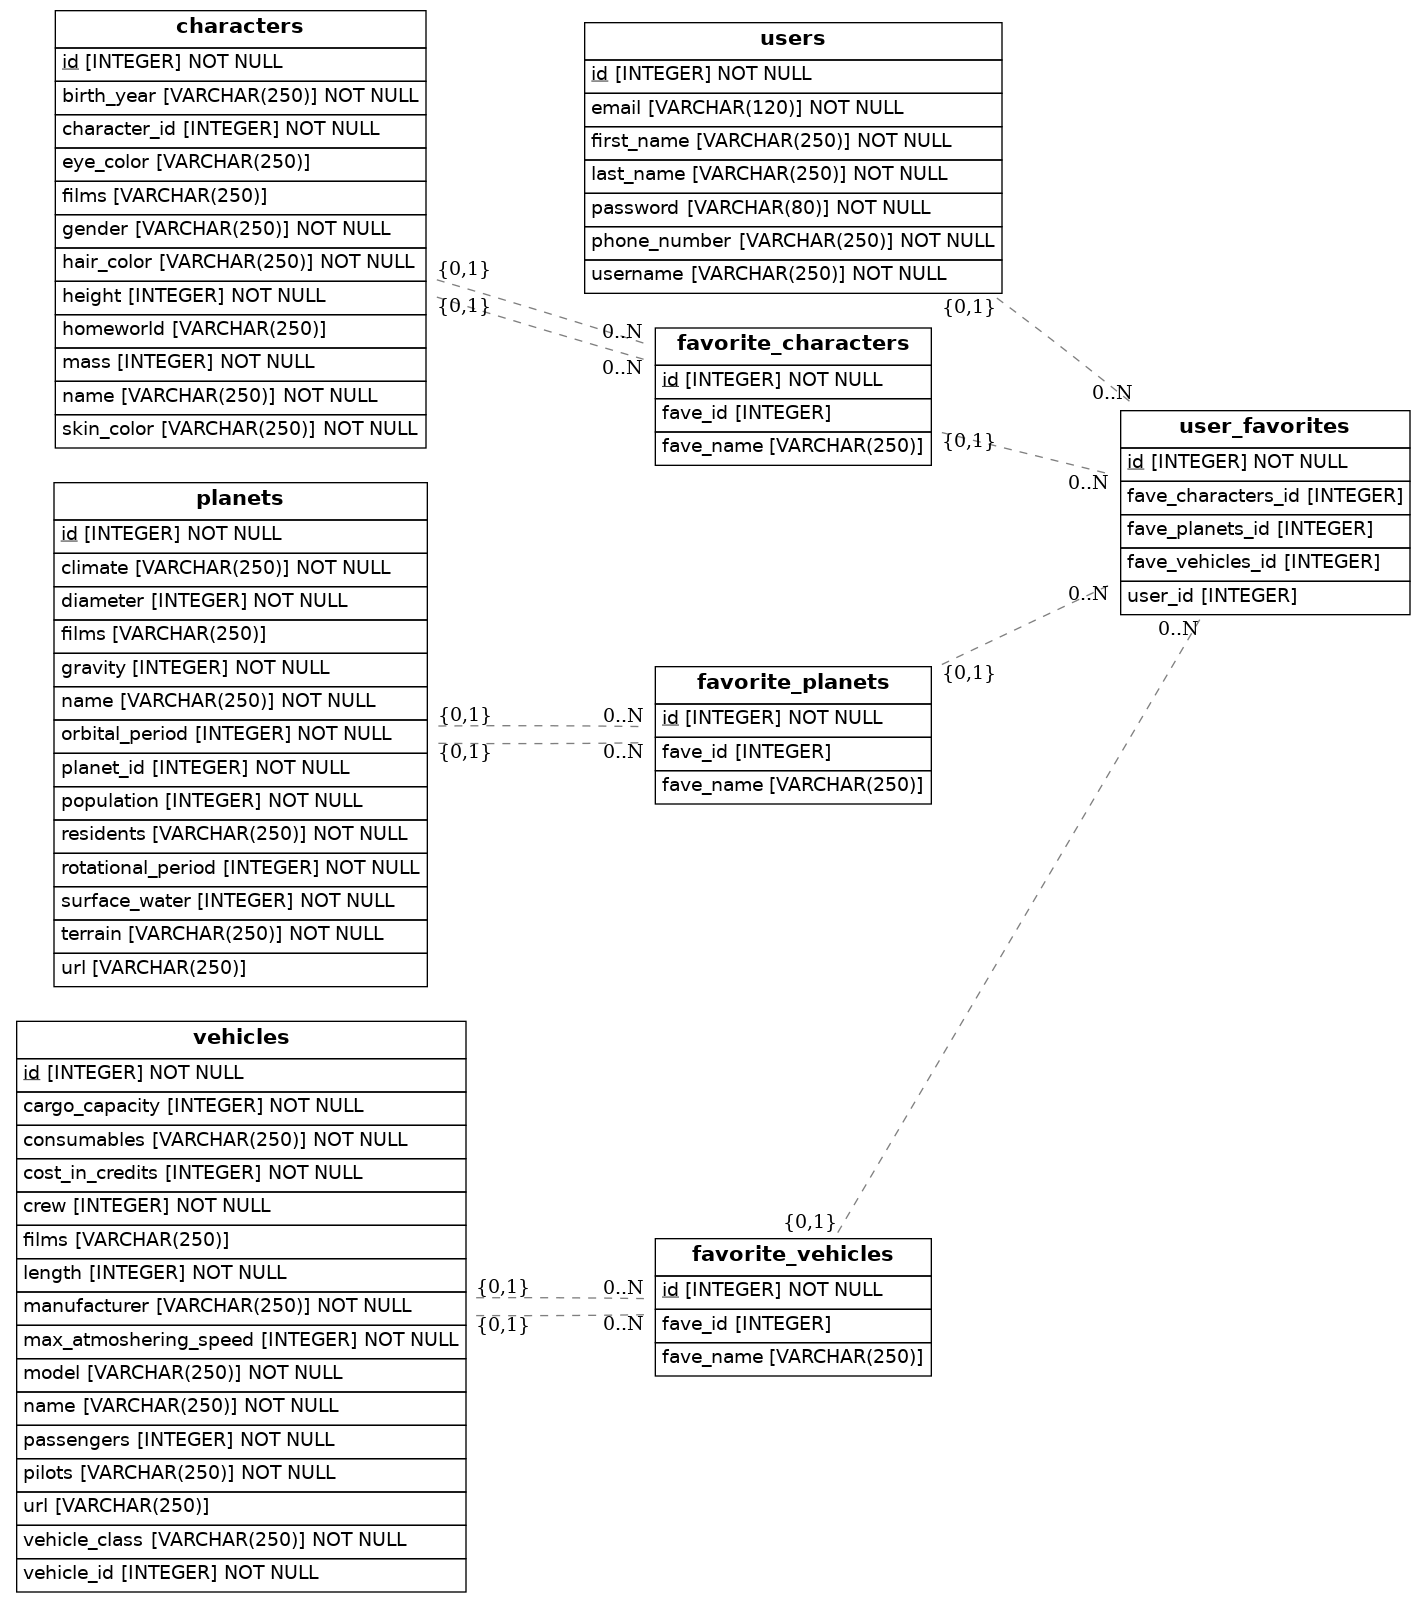
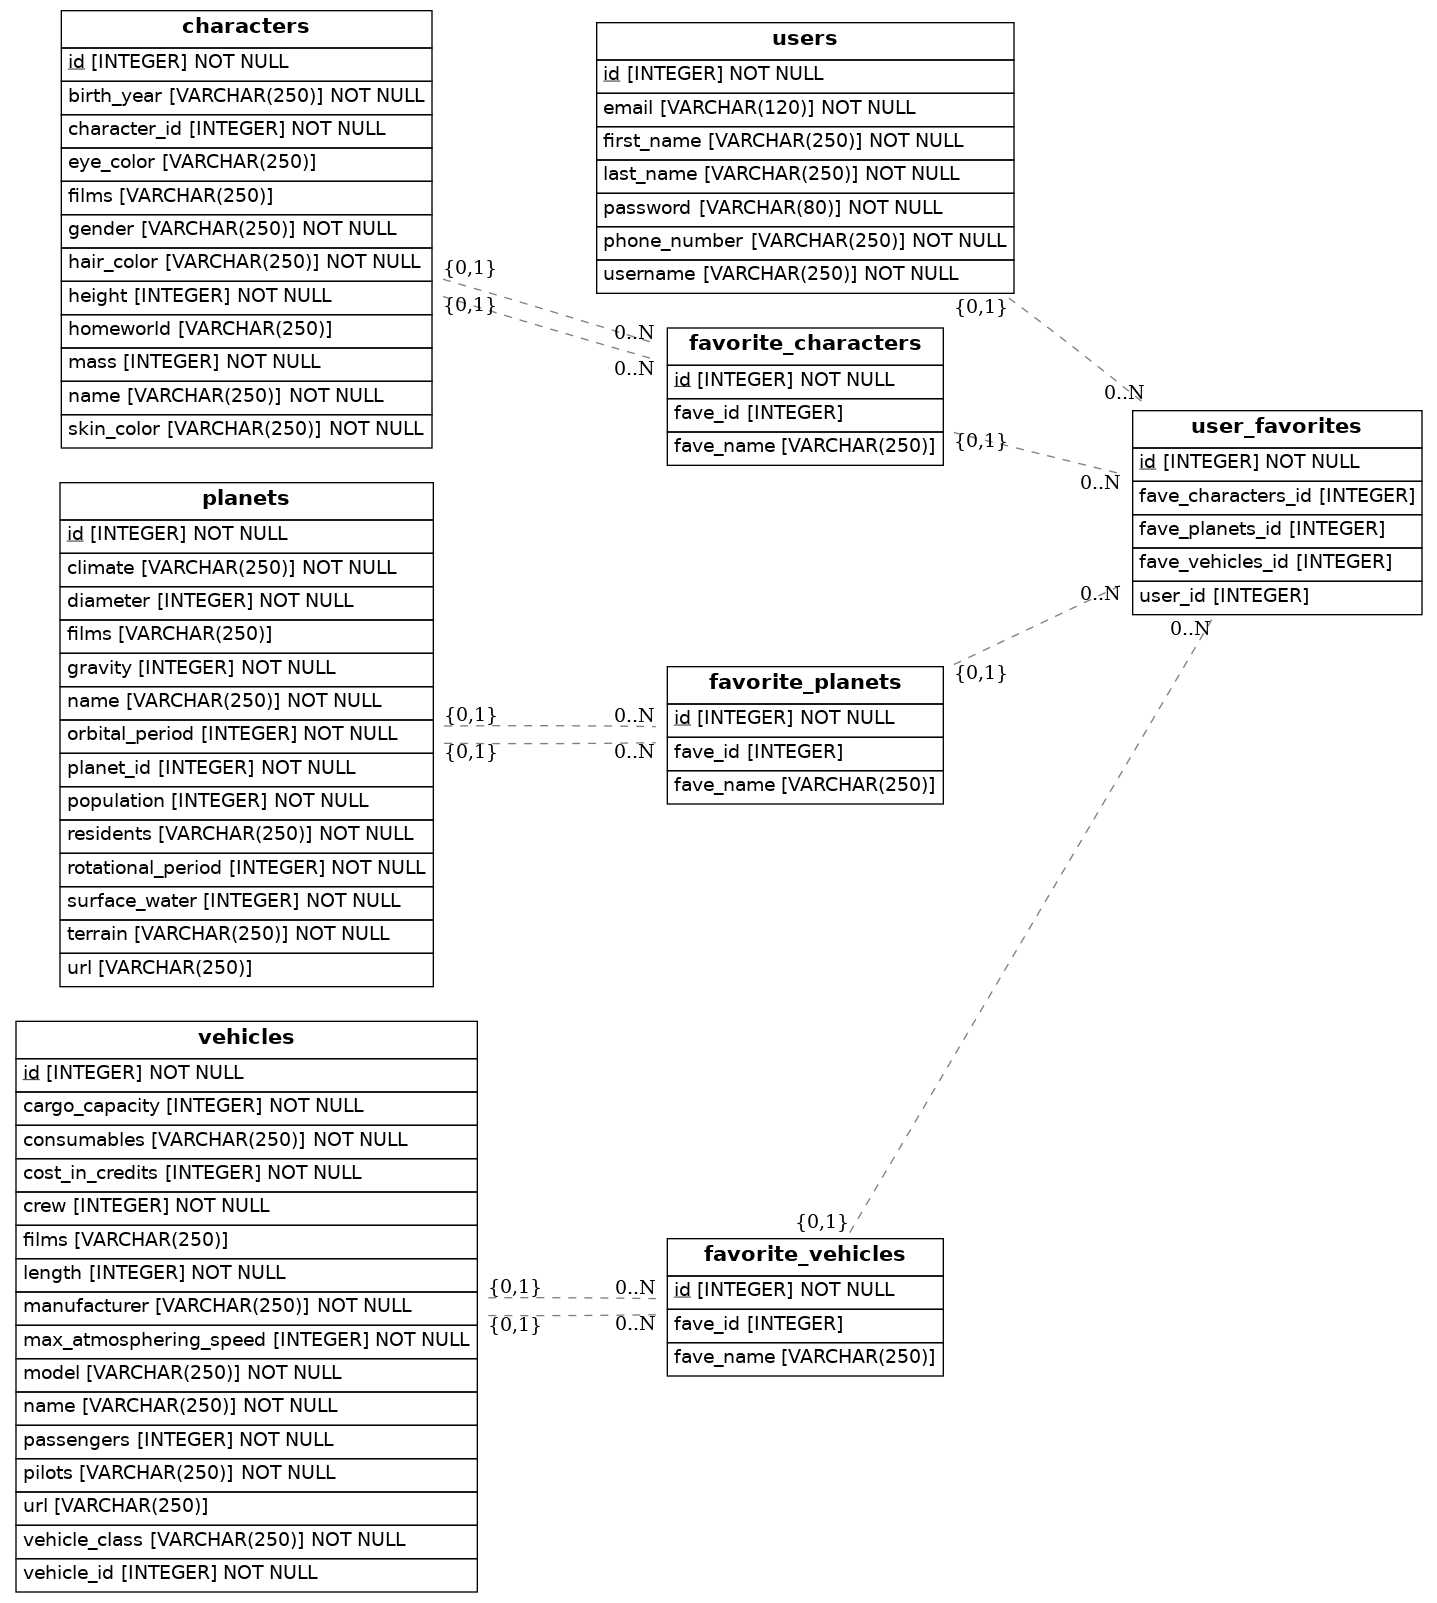
Models Complete

diff --git a/src/models.py b/src/models.py
@@ -17,6 +17,16 @@ class Users(Base):
     phone_number = Column(String(250), unique=False, nullable=False)
     username = Column(String(250), unique=True, nullable=False)
     password = Column(String(80), unique=False, nullable=False)
+    
+    def serialize(self):
+        return {
+            "first_name": self.first_name,
+            "last_name": self.last_name,
+            "email": self.email,
+            "phone_number": self.phone_number,
+            "username": self.username,
+            "password": self.password
+        }
 
 class User_Favorites(Base):
     __tablename__ = 'user_favorites'
@@ -28,6 +38,14 @@ class User_Favorites(Base):
     fave_characters_id = Column(Integer, ForeignKey('favorite_characters.id'))
     fave_planets_id = Column(Integer, ForeignKey('favorite_planets.id'))
     fave_vehicles_id = Column(Integer, ForeignKey('favorite_vehicles.id'))
+    
+    def serialize(self):
+        return {
+            "fave_characters_id": self.fave_characters_id,
+            "fave_planets_id": self.fave_planets_id,
+            "fave_vehicles_id": self.fave_vehicles_id
+        }
+    
 
 class Favorite_Characters(Base):
     __tablename__ = 'favorite_characters'
@@ -35,6 +53,12 @@ class Favorite_Characters(Base):
 
     fave_name = Column(String(250), ForeignKey('characters.name'))
     fave_id = Column(Integer, ForeignKey('characters.character_id'))
+    
+    def serialize(self):
+        return {
+            "fave_name": self.fave_name,
+            "fave_id": self.fave_id
+        }
 
 class Favorite_Planets(Base):
     __tablename__ = 'favorite_planets'
@@ -42,6 +66,12 @@ class Favorite_Planets(Base):
 
     fave_name = Column(String(250),  ForeignKey('planets.name'))
     fave_id = Column(Integer, ForeignKey('planets.planet_id'))
+    
+    def serialize(self):
+        return {
+            "fave_name": self.fave_name,
+            "fave_id": self.fave_id
+        }
 
 class Favorite_Vehicles(Base):
     __tablename__ = 'favorite_vehicles'
@@ -49,6 +79,12 @@ class Favorite_Vehicles(Base):
 
     fave_name = Column(String(250), ForeignKey('vehicles.name'))
     fave_id = Column(Integer, ForeignKey('vehicles.vehicle_id'))
+    
+    def serialize(self):
+        return {
+            "fave_name": self.fave_name,
+            "fave_id": self.fave_id
+        }
 
 class Characters(Base):
     __tablename__ = 'characters'
@@ -65,6 +101,21 @@ class Characters(Base):
     eye_color = Column(String(250), unique=False, nullable=True)
     films = Column(String(250), unique=False, nullable=True)
     homeworld = Column(String(250), unique=False, nullable=True)
+    
+    def serialize(self):
+        return {
+            "character_id": self.character_id,
+            "name": self.name,
+            "birth_year": self.birth_year,
+            "gender": self.gender,
+            "height": self.height,
+            "mass": self.mass,
+            "skin_color": self.skin_color,
+            "hair_color": self.hair_color,
+            "eye_color": self.eye_color,
+            "films": self.films,
+            "homeworld": self.homeworld
+        }
     
 class Planets(Base):
     __tablename__ = 'planets'
@@ -83,6 +134,23 @@ class Planets(Base):
     rotational_period = Column(Integer, unique=False, nullable=False)
     films = Column(String(250), unique=False, nullable=True)
     url = Column(String(250), unique=False, nullable=True)
+    
+    def serialize(self):
+        return {
+            "planet_id": self.planet_id,
+            "name": self.name,
+            "population": self.population,
+            "residents": self.residents,
+            "terrain": self.terrain,
+            "climate": self.climate,
+            "surface_water": self.surface_water,
+            "diameter": self.diameter,
+            "gravity": self.gravity,
+            "orbital_period": self.orbital_period,
+            "rotational_period": self.rotational_period,
+            "films": self.films,
+            "url": self.url
+        }
 
 class Vehicles(Base):
     __tablename__ = 'vehicles'
@@ -100,10 +168,28 @@ class Vehicles(Base):
     length = Column(Integer, unique=False, nullable=False)
     cargo_capacity = Column(Integer, unique=False, nullable=False)
     consumables = Column(String(250), unique=False, nullable=False)
-    max_atmoshering_speed = Column(Integer, unique=False, nullable=False)
+    max_atmosphering_speed = Column(Integer, unique=False, nullable=False)
     films = Column(String(250), unique=False, nullable=True)
     url = Column(String(250), unique=False, nullable=True)
     
+    def serialize(self):
+        return {
+            "vehicle_id": self.vehicle_id,
+            "name": self.name,
+            "vehicle_class": self.vehicle_class,
+            "manufacturer": self.manufacturer,
+            "model": self.model,
+            "cost_in_credits": self.cost_in_credits,
+            "crew": self.crew,
+            "pilots": self.pilots,
+            "passengers": self.passengers,
+            "length": self.length,
+            "cargo_capacity": self.cargo_capacity,
+            "consumables": self.consumables,
+            "max_atmosphering_speed": self.max_atmosphering_speed,
+            "films": self.films,
+            "url": self.url
+        }
     
     
     
